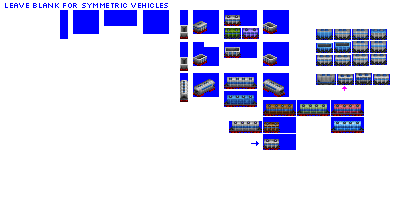
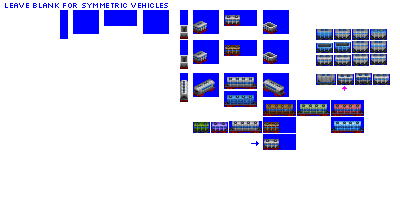
Change: proof-of-concept 2nd livery for covered hoppers on user flip

Changed region(s): [[0.45, 0.12, 0.72, 0.36], [0.48, 0.6, 0.57, 0.69]]

diff --git a/src/gestalt_graphics/graphics_constants.py b/src/gestalt_graphics/graphics_constants.py
@@ -15,21 +15,6 @@ spritesheet_width = 425
 # label order matters, so tuples are used not dicts
 # could probably have used orderedict or named tuple, but...blah
 
-# !! unfinished - copy of tanker remaps, needs remapping to covered hopper cargos
-# intended to be sparse, there aren't enough colours to give a guide to the cargos
-# so this is just a visual tweak to give some variety when covered hoppers are widely used in a game
-# this just recolours the hatches, so only 2 pruple colours are used
-covered_hopper_livery_remap_white = {141: 13, 142: 14}
-covered_hopper_livery_remap_bluish_grey = {141: 19, 142: 20}
-covered_hopper_livery_recolour_maps = (("DFLT", {141: CC1+5, 142: CC1+6}),
-                                       ("SAND", {141: 36, 142: 37}),
-                                       ("BDMT", covered_hopper_livery_remap_bluish_grey),
-                                       ("CMNT", covered_hopper_livery_remap_bluish_grey),
-                                       ("SALT", covered_hopper_livery_remap_white),
-                                       ("QLME", covered_hopper_livery_remap_white),
-                                       ("SASH", covered_hopper_livery_remap_white),
-                                       ("RUBR", {141: 42, 142: 43}),)
-
 # !! unfinished - copy of tanker remaps, needs remapping to silo cargos
 silo_livery_recolour_maps = (("QLME", {136: 1, 137: 2, 138: 3, 139: 4,
                                          140: 5, 141: 6, 142: 7, 143: 8}),  # see note on oil above

diff --git a/src/train.py b/src/train.py
@@ -660,10 +660,15 @@ class CoveredHopperCarConsist(CarConsist):
         self.label_refits_disallowed = []
         self.default_cargos = global_constants.default_cargos['covered_hopper']
         self.loading_speed_multiplier = 2
+        # swap CC randomly (player can't choose), but also swap base livery on flip (player can choose
+        self.random_company_colour_swap = True
+        self.allow_flip = True
         # Graphics configuration
-        # !! re-use silo remap?
-        self.gestalt_graphics = GestaltGraphicsCargoSpecificLivery(
-            recolour_maps=graphics_constants.covered_hopper_livery_recolour_maps)
+        # covered hopper cars only have one consist cargo mapping, which they always default to, whatever the consist cargo is
+        # the player can simply choose the alternative livery on flip
+        # there is no randomisation of livery, but CC is randomised
+        spriterow_group_mappings = {'pax': {'default': 0, 'first': 0, 'last': 0, 'special': 0}}
+        self.gestalt_graphics = GestaltGraphicsConsistSpecificLivery(spriterow_group_mappings, consist_ruleset=None)
 
 
 class DumpCarConsist(CarConsist):
